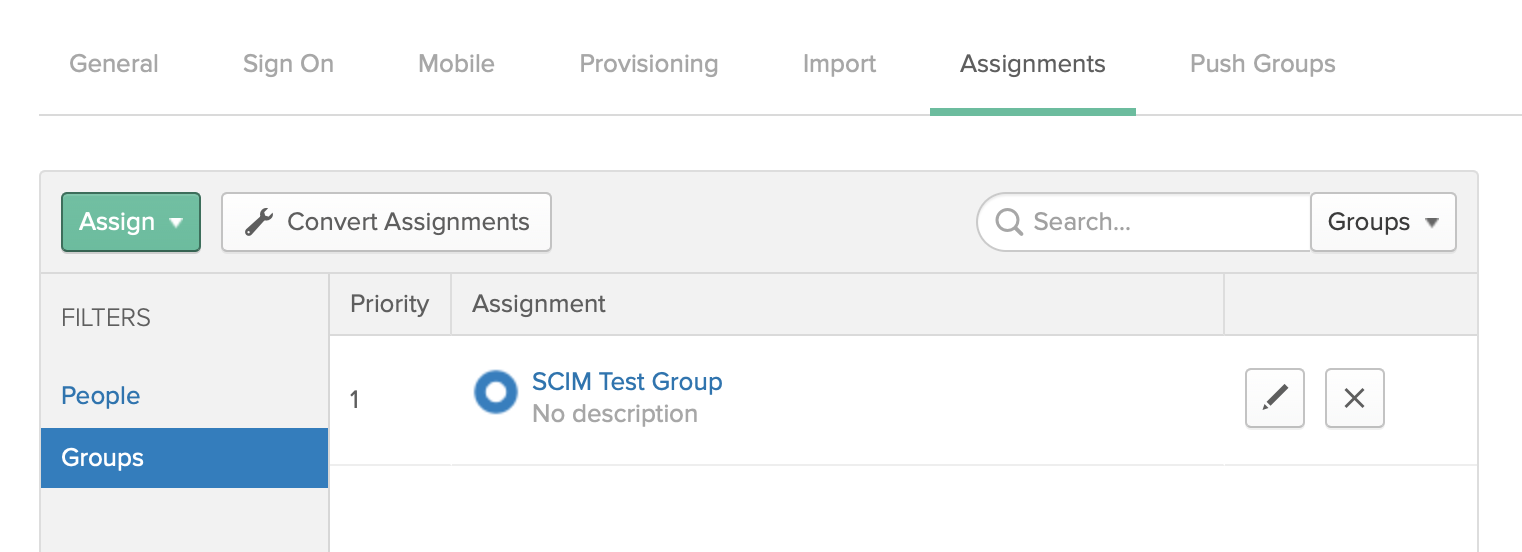
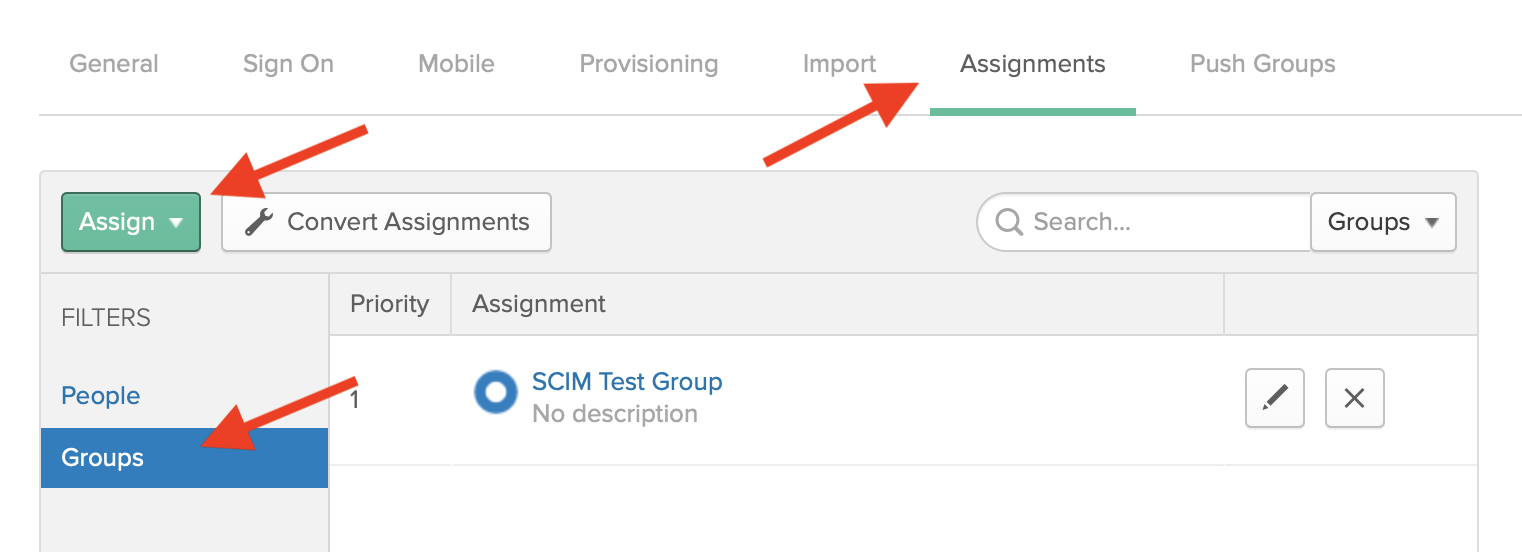
fix images

diff --git a/src/segment-app/iam/scim.md b/src/segment-app/iam/scim.md
@@ -71,7 +71,7 @@ Your IdP can use SCIM to delete groups from your Segment workspace. Deleting a g
 
 ## Attribute Mapping
 
-When intergrating Segment SCIM and your IdP you may need to map attributes for users. The only attributes that Segment SCIM supports are `userName` and `displayName`. You should leave an existing mapping for the `email` SAML attribute, which you may have setup during your initial SSO onboarding. This mapping supports SAML authentication, and is separate from setting up SCIM.
+When intergrating Segment SCIM and your IdP you may need to map attributes for users. The only attributes that Segment SCIM supports are `userName` and `displayName`. You should leave any existing mapping for the `email` SAML attribute, which you may have setup during your initial SSO onboarding. This mapping supports SAML authentication, and is separate from setting up SCIM, but may be within the same page depending on your IdP.
 
 You'll need to map an email (IdP) to `userName` (Segment). Depending on your IdP this attribute may be called `email` or simply `mail`. If your IdP uses emails for usernames, you can map `userName` (IdP) to `userName` (Segment).
 
@@ -81,23 +81,23 @@ If your IdP supports the `displayName` attribute this can be mapped directly to 
 
 1. [Complete Okta Setup Guide for SSO](https://saml-doc.okta.com/SAML_Docs/How-to-Configure-SAML-2.0-for-Segment.html?baseAdminUrl=https://segment-admin.oktapreview.com&app=segment&instanceId=0oata15py1n3kQUo50h7)
 2. Click on the provisioning tab and follow the [Configuration Instructions](#configuration-instructions) to fill in the required fields.
-3. Once the credentials have been saved, select "To App" under the provisioning tab. Click edit and select "Create Users" and "Deactivate Users," and then Save.
+3. Once the credentials have been saved, select "To App" (left sidebar) under the provisioning tab. Click edit and select "Create Users" and "Deactivate Users," and then Save.
 4. Under the provisioning tab, click "Go to Profile Editor," and then "Mappings."
 5. The left tab represents the data that Segment will send to Okta. Click "do not map" for all attributes except `email` and `displayName`, click "Save Mappings," and "Apply Updates Now" (if prompted).
 
 ![](images/scim_attribute_mappings.png)
 
 6. Reopen "Mappings" and click the right right tab. This represents data that Okta will send to Segment. Again, click "do not map" for all attributes except `email` and `displayName`, "Save Mappings," and "Apply Updates Now" (if prompted).
-7. This should close the "Mappings" pop up. You can now delete all unused attributes. "Given Name" and "Family Name" are required by Okta, but unused by Segment.
+7. This should close the "Mappings" pop up. You can now delete all unused attributes from the bottom of the "Provisioning Tab". "Given Name" and "Family Name" are required by Okta, but unused by Segment.
 
 ![](images/scim_delete_attributes.png)
 
-8. Navigate back to the Segment Okta app. You're now ready to assign people or groups! Please read through the (features)[#features] sections of this doc to make sure you understand this functionality.
+8. Navigate back to the Segment Okta app. You're now ready to assign people or groups! Please read through the [features](#features) sections of this doc to make sure you understand this functionality before continuing.
 9. We recommend assigning users to the Segment app by Okta group. Assignment by group allows you to easily manage which groups in your organization are able to authenticate to Segment. Users can also be assigned individually.
 
 ![](images/scim_assignments.png)
 
-10. Once users have been assigned we recommend pushing your Okta groups into Segment, and then going into the Segment app to assign permissions to these groups. You can also link Okta groups to an existing group within the Segment app using the Okta UI.
+10. Once users have been assigned we recommend pushing your assigned Okta groups into Segment, and then going into the Segment app to assign permissions to these groups. You can also link Okta groups to an existing group within the Segment app using the Okta UI.
 
 ![](images/scim_group_push.png)
 
